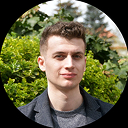
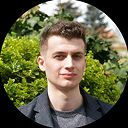
Couple fixes

diff --git a/src/app/Components/allProjects.jsx b/src/app/Components/allProjects.jsx
@@ -160,12 +160,21 @@ function ProjectCard({ projectData }){
                         {previewAnimationUrl && <Image className={`${Styles.overlay} ${Styles.overlayAnimation}`} style={{objectFit: "cover"}} src={previewAnimationUrl} alt="" sizes={"auto"} fill/>}
                     </div>
                     <div className={Styles.projectDescription}>
-                        <div className="u-layout_flex-row u-layout_flex-start-center gap-l">
-                            {collaborators.length > 0 && <Collaborators size={Size.XS} collaborators={collaborators}/>}
-                            <h4>{projectData.title}</h4>
+                        <div className="u-layout_flex-row u-layout_flex-space-between-center">
+                            <div className="u-layout_flex-row u-layout_flex-start-center gap-l">
+                                {collaborators.length > 0 && <Collaborators style={{opacity: "0.8"}} size={Size.XS} collaborators={collaborators}/>}
+                                <h4 className="u-text-secondary">{projectData.title}</h4>
+                            </div>
+                            {projectData.techStack && (
+                                <div className="u-layout_flex-row u-layout_flex-start-center" style={{opacity: "0.65"}}>
+                                    {projectData.techStack.map((el, id) => {
+                                        return <Chip key={id} icon={el.icon.asset.url}/>;
+                                    })}
+                                </div>
+                            )}
                         </div>
 
-                        <div className="u-layout_flex-row u-layout_flex-space-between-center" style={{opacity: "0.7"}}>
+                        {/* <div className="u-layout_flex-row u-layout_flex-space-between-center" style={{opacity: "0.7"}}>
                             {projectData.techStack && (
                                 <div className="u-layout_flex-row u-layout_flex-start-center">
                                     {projectData.techStack.map((el, id) => {
@@ -181,7 +190,7 @@ function ProjectCard({ projectData }){
                                     })}
                                 </div>
                             )}
-                        </div>
+                        </div> */}
                     </div>
                 </div>
             </Link>

diff --git a/src/data/projects/wod.js b/src/data/projects/wod.js
@@ -1,21 +1,29 @@
-import { person_daronRus, person_dimati } from "../persons/dimati";
+import { person_daronRus, person_dimati, person_vladTerm } from "../persons/dimati";
 import { stackCSharp, stackJavaScript, stackNextjs, stackReact, stackUnity } from "../etc/stack";
 import { platformMobile, platformPC, platformTablet } from "../etc/platforms";
 import { FixImagePath } from "@/lib/utils/imagePathUtils";
 
-const imagePath = FixImagePath("/data/projects/musicHeroRacer");
+const imagePath = FixImagePath("/data/projects/wod");
 
-export const projectMusicHeroRacer = {
+export const projectWOD = {
     id: { 
-        current: "music-hero-racer" 
+        current: "world-of-derby" 
     }, 
-    title: "Music hero racer",
-    description: `Variation of the Guitar Hero game . In this game, you need to collect blocks to the music. Collect cars and upgrade them.`,
-    orderRank: 107,
+    title: "World of Derby",
+    description: `Released in 2015 on GooglePlay and AppStore. World of Derby its a racing game about derby in arenas. We were inspired by the game Flatout 2. In the game a player can buy and upgrade, repair cars and takes part in arena battles.`,
+    orderRank: 114,
     team:[
         {
             person: person_dimati,
-            position: "Senior software developer"
+            position: "Software developer"
+        },
+        {
+            person: person_daronRus,
+            position: "Software developer"
+        },
+        {
+            person: person_vladTerm,
+            position: "Software developer"
         }
     ],
     previewImage:{
@@ -27,8 +35,7 @@ export const projectMusicHeroRacer = {
     //     }
     // },
     videoLinks: [
-        `https://www.youtube.com/embed/hdQsFNckNtA`,
-        `https://www.youtube.com/embed/JZoOfqqCLDU`
+        `https://www.youtube.com/embed/MqUwtk5L-_o`,
     ],
     // galleryScreenshots: [
     //     { asset:{ url: `${imagePath}/gallery/screen_1.webp` }},

diff --git a/src/lib/UIComponents/collaborators.jsx b/src/lib/UIComponents/collaborators.jsx
@@ -9,7 +9,7 @@ import { Size } from '@/lib/UIComponents/uiCommon';
  * @param {Object} params
  * @param {Array<{ avatarImageUrl: string }>} params.collaborators
  */
-export default function Collaborators({collaborators, size=Size.M}) {
+export default function Collaborators({collaborators, size=Size.M, ...params}) {
 
   const maxCount = 5;
 
@@ -23,7 +23,7 @@ export default function Collaborators({collaborators, size=Size.M}) {
   const hiddenCount = Math.max(0, collaborators.length - maxCount);
 
   return (
-    <div className={Styles.base}>
+    <div className={Styles.base} {...params}>
         <div className={`${Styles.avatarsContainer} ${Styles[`overlap_${size}`]}`}>
           {avatarsToDraw} 
           {hiddenCount > 0 && <>

diff --git a/src/data/allProjects.js b/src/data/allProjects.js
@@ -8,6 +8,7 @@ import { projectNetworkBattleships } from "./projects/networkBattleships";
 import { projectRiskManagement } from "./projects/riskManagement";
 import { projectUCRP } from "./projects/ucrp";
 import { projectVrWeaponsShowcase } from "./projects/vrWeaponsShowcase";
+import { projectWOD } from "./projects/wod";
 
 const AllProjectsData = [
     projectUCRP,
@@ -20,6 +21,7 @@ const AllProjectsData = [
     projectVrWeaponsShowcase,
     projectMusicHeroRacer,
     projectNetworkBattleships,
+    projectWOD,
 ]
 
 export default AllProjectsData;

diff --git a/src/data/persons/dimati.js b/src/data/persons/dimati.js
@@ -32,6 +32,21 @@ export const person_daronRus = {
     }
 }
 
+export const person_vladTerm = {
+    id: "vlad-havryliuk",
+    fullName: "Vlad Havryliuk",
+    shortAboutMe: "Software developer",
+    location: "Warsaw, Poland",
+    socialLinks: [
+        `https://www.linkedin.com/in/vladyslav-havryliuk/`,    
+    ],
+    avatarImage:{
+        asset:{
+            url: FixImagePath("/data/persons/vladTerm.jpg")
+        }
+    }
+}
+
 export const person_chafik = {
     id: "chafik-achache",
     fullName: "Chafik Achache",
